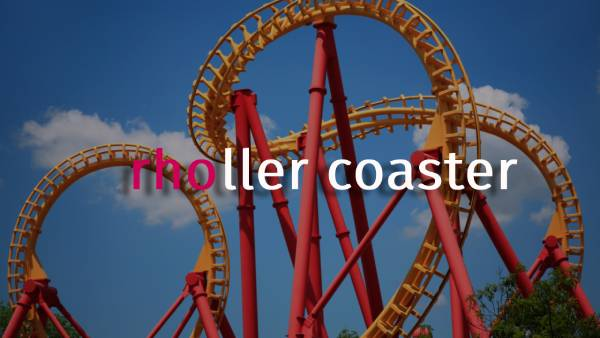
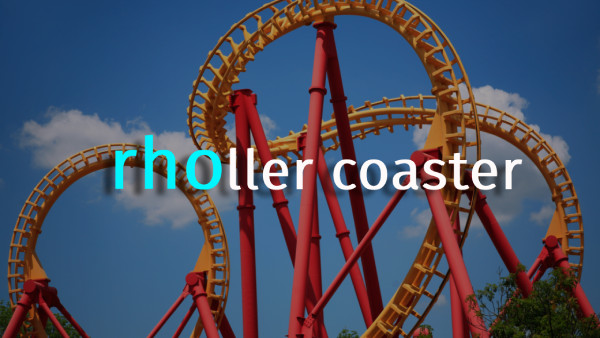
changed image, + image integration in README

diff --git a/README.MD b/README.MD
@@ -1,9 +1,10 @@
 ### Rholler coaster
 
-Fun tutorial on RChain + nodeJS. Learn to: deploy on rnode, predict unforgeable names, retreive data on names, convert data to javascript readable variables, execute explore-deploy (free read-only deploy), use the registry to have data easily retreivable.
+![rholler coaster](https://raw.githubusercontent.com/fabcotech/rhollercoaster/main/rhollercoaster.jpg)
+
+Easy tutorial on RChain + nodeJS, all basic development usecases are covered. Learn to: deploy on rnode, predict unforgeable names, retreive data on names, convert data to javascript readable variables, execute explore-deploy (free read-only deploy), use the registry to have data easily retreivable.
 
 Guide to first deploy and interact with rholang/RChain.
-
 
 - step 01: deploy on rnode
 - step 02: prepare deploy before deploying, and then get data onchain
